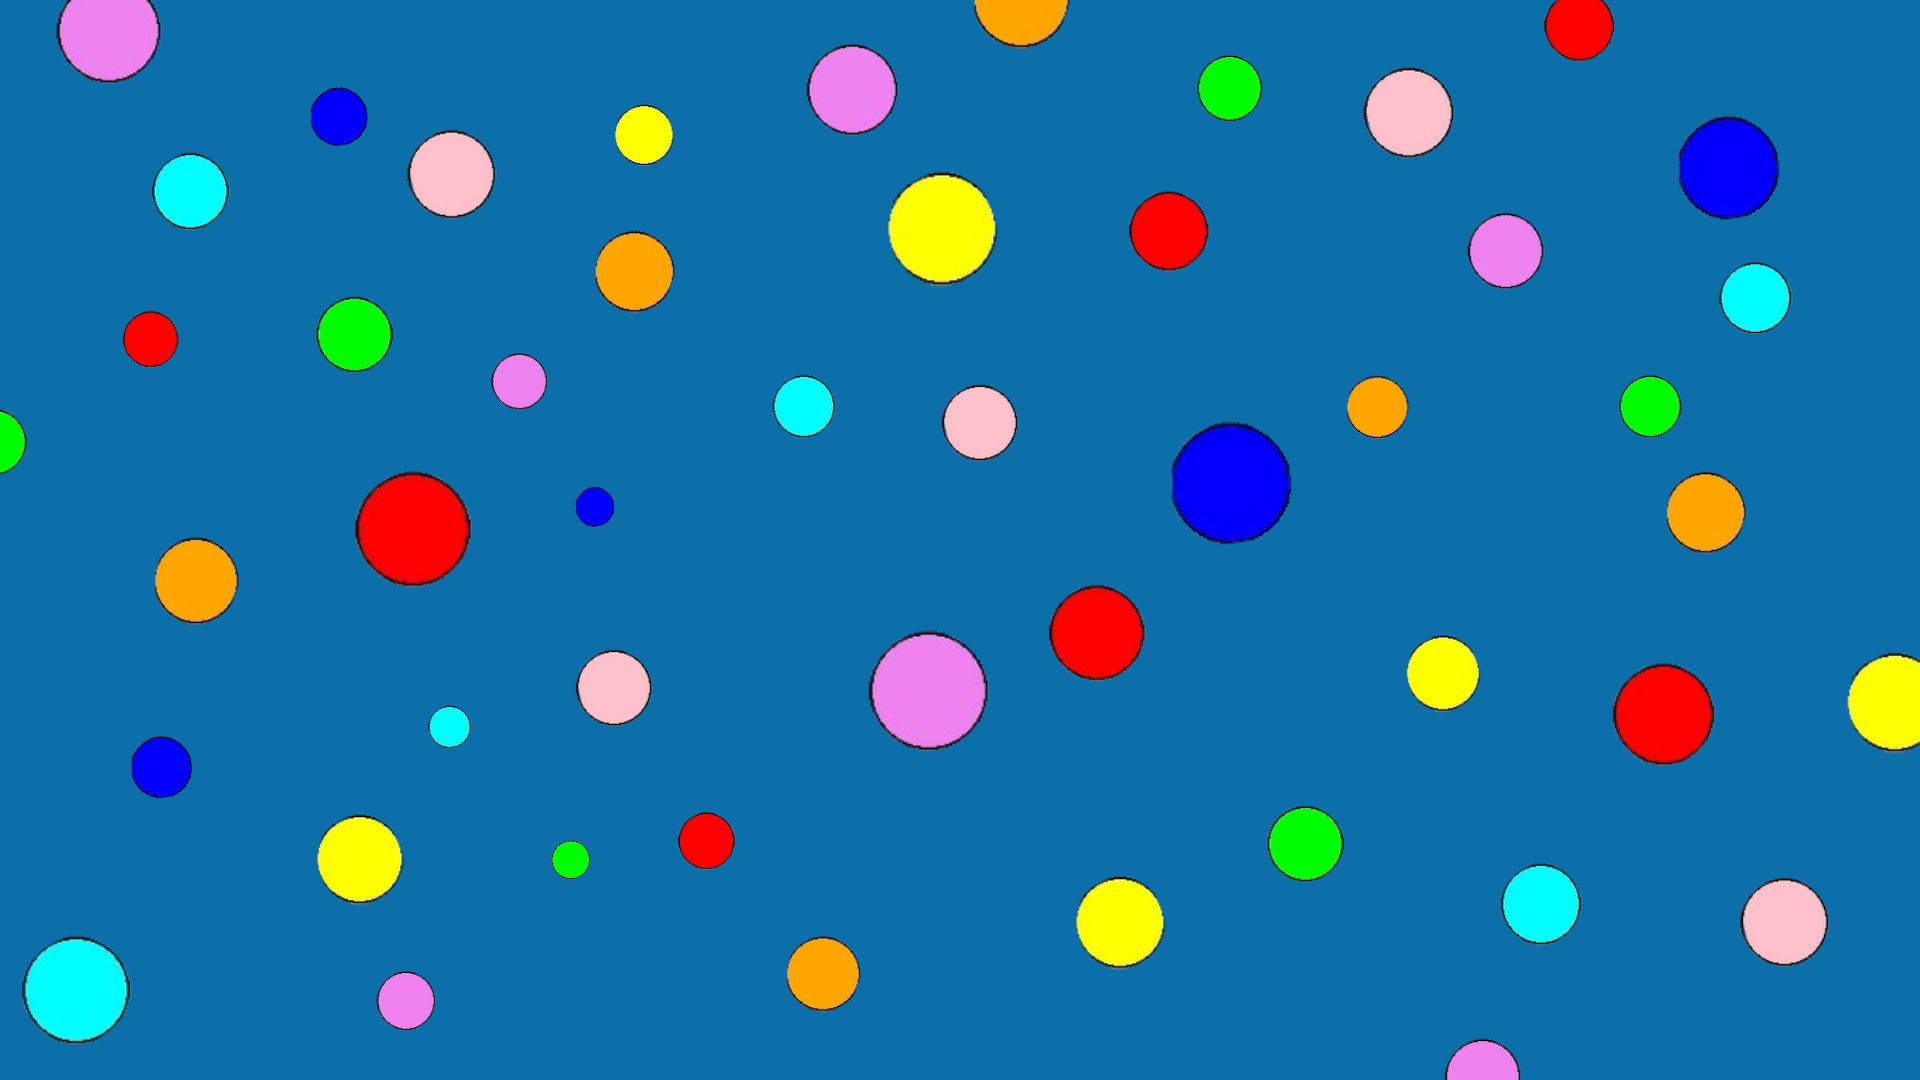
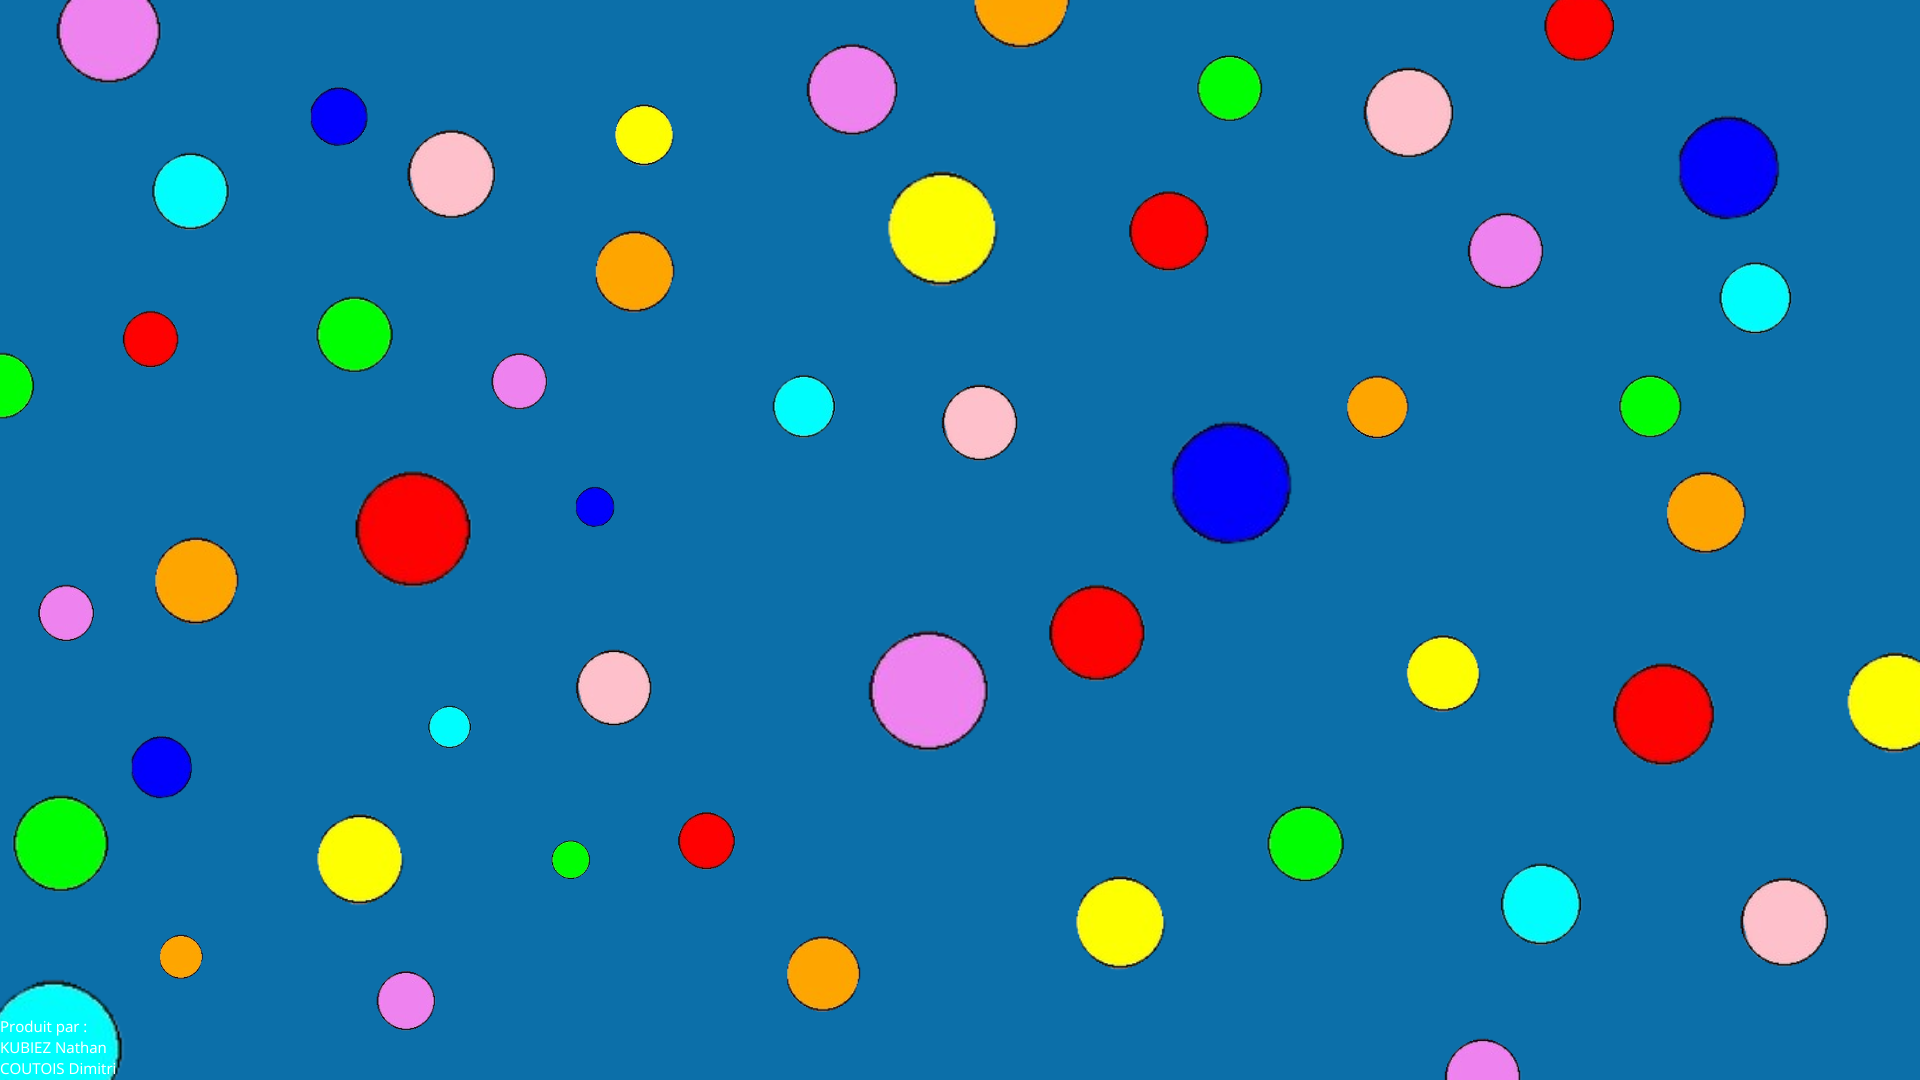
mise de la scene menu dans un fichier

diff --git a/Menu.py b/Menu.py
@@ -1,0 +1,59 @@
+import pygame
+from scene import Scene
+from Button import Button
+from confirmation import confirmation_popup
+
+class MenuScene(Scene):
+    def __init__(self, screen):
+        super().__init__(screen)
+        self.screen_width = screen.get_width()
+        self.screen_height = screen.get_height()
+        play_button_width = self.screen_width // 4
+        play_button_height = self.screen_height // 7
+        play_button_x = (self.screen_width // 2) - (play_button_width // 2)
+        play_button_y = (self.screen_height // 2) - (4*play_button_height // 2)
+        self.easy_button = Button(play_button_x, play_button_y, play_button_width, play_button_height, "Facile",(23, 131, 15),50,15)
+        self.medium_button = Button(play_button_x, play_button_y+1.3*play_button_height, play_button_width, play_button_height, "Moyen",(255, 128, 0),50,15)
+        self.hard_button = Button(play_button_x, play_button_y+2.6*play_button_height, play_button_width, play_button_height, "Difficile",(255, 0, 0),50,15)
+        self.perso_button = Button(play_button_x, play_button_y+3.9*play_button_height, play_button_width, play_button_height, "Personalisable",(255, 0, 255),40,15)
+        self.quit_button = Button(19*self.screen_width/20, 0, self.screen_width/20, self.screen_width/20, "quitter",(55, 0, 255),self.screen_width//70,50)
+        self.help_button = Button(19*self.screen_width/20, self.screen_height - self.screen_width/20, self.screen_width/20, self.screen_width/20, "aide",(0, 255, 255),self.screen_width//60,50)
+        self.back_ground = pygame.image.load("image/background_menu.png") #chargement de l'image de fond du Menu
+        self.back_ground = pygame.transform.scale(self.back_ground, (self.screen_width, self.screen_height)) #on redimensionne l'image de fond du menu 
+
+
+    def handle_events(self, event):
+        if event.type == pygame.QUIT:
+            return "fin"
+        elif event.type == pygame.MOUSEBUTTONUP:
+            if event.button == 1: #si click gauche relaché
+                if self.easy_button.is_clicked(event.pos):
+                    return "Easy"  # Changer de scène vers le jeu en easy
+                elif self.medium_button.is_clicked(event.pos):
+                    return "Medium"  # Changer de scène vers le jeu en medium
+                elif self.hard_button.is_clicked(event.pos):
+                    return "Hard"  # Changer de scène vers le jeu en hard
+                elif self.perso_button.is_clicked(event.pos):
+                    return "Perso"  # Changer de scène vers le jeu en easy
+                elif self.quit_button.is_clicked(event.pos):
+                    if confirmation_popup(self.screen, "Quitter le jeu ?"): #ouvre une confirmation qui est True si le joueur veut quitter et False si il refuse
+                        return "fin"
+                elif self.help_button.is_clicked(event.pos):
+                    return "Explaination" #Changer de scène vers la scene des expliactions
+        
+    def draw(self): 
+        self.screen.blit(self.back_ground, (0, 0))#met l'image en fond d'écran
+        #on dessine tous les boutons 
+        self.easy_button.draw(self.screen)
+        self.medium_button.draw(self.screen)
+        self.hard_button.draw(self.screen)
+        self.perso_button.draw(self.screen)
+        self.quit_button.draw(self.screen)
+        self.help_button.draw(self.screen)
+        #on affiche "Menu" en haut de l'écran
+        font = pygame.font.Font("Font/Coolvetica.otf", 80)
+        text_menu = font.render("Menu", True, (255, 255, 255))
+        text_menu_width = text_menu.get_width()
+        text_menu_x = (self.screen_width // 2) - (text_menu_width // 2)
+        text_menu_y = self.screen_height // 20
+        self.screen.blit(text_menu, (text_menu_x,text_menu_y))

diff --git a/scene.py b/scene.py
@@ -16,61 +16,7 @@ class Scene:
     def draw(self):
         pass  
 
-class MenuScene(Scene):
-    def __init__(self, screen):
-        super().__init__(screen)
-        self.screen_width = screen.get_width()
-        self.screen_height = screen.get_height()
-        play_button_width = self.screen_width // 4
-        play_button_height = self.screen_height // 7
-        play_button_x = (self.screen_width // 2) - (play_button_width // 2)
-        play_button_y = (self.screen_height // 2) - (4*play_button_height // 2)
-        self.easy_button = Button(play_button_x, play_button_y, play_button_width, play_button_height, "Facile",(23, 131, 15),50,15)
-        self.medium_button = Button(play_button_x, play_button_y+1.3*play_button_height, play_button_width, play_button_height, "Moyen",(255, 128, 0),50,15)
-        self.hard_button = Button(play_button_x, play_button_y+2.6*play_button_height, play_button_width, play_button_height, "Difficile",(255, 0, 0),50,15)
-        self.perso_button = Button(play_button_x, play_button_y+3.9*play_button_height, play_button_width, play_button_height, "Personalisable",(255, 0, 255),40,15)
-        self.quit_button = Button(19*self.screen_width/20, 0, self.screen_width/20, self.screen_width/20, "quitter",(55, 0, 255),self.screen_width//70,50)
-        self.help_button = Button(19*self.screen_width/20, self.screen_height - self.screen_width/20, self.screen_width/20, self.screen_width/20, "aide",(0, 255, 255),self.screen_width//60,50)
-        self.back_ground = pygame.image.load("image/background_menu2.png")
-        self.back_ground = pygame.transform.scale(self.back_ground, (self.screen_width, self.screen_height))
 
-
-    def handle_events(self, event):
-        if event.type == pygame.QUIT:
-            return "fin"
-        elif event.type == pygame.MOUSEBUTTONUP:
-            if event.button == 1:
-                if self.easy_button.is_clicked(event.pos):
-                    return "Easy"  # Changer de scène vers le jeu en easy
-                elif self.medium_button.is_clicked(event.pos):
-                    return "Medium"  # Changer de scène vers le jeu en medium
-                elif self.hard_button.is_clicked(event.pos):
-                    return "Hard"  # Changer de scène vers le jeu en hard
-                elif self.perso_button.is_clicked(event.pos):
-                    return "Perso"  # Changer de scène vers le jeu en easy
-                elif self.quit_button.is_clicked(event.pos):
-                    if confirmation_popup(self.screen, "Quitter le jeu ?"):
-                        return "fin"
-                elif self.help_button.is_clicked(event.pos):
-                    return "Explaination"
-        
-    def draw(self): 
-        #self.screen.fill((7, 67, 102))  # Fond menu
-        self.screen.blit(self.back_ground, (0, 0))
-
-        self.easy_button.draw(self.screen)
-        self.medium_button.draw(self.screen)
-        self.hard_button.draw(self.screen)
-        self.perso_button.draw(self.screen)
-        self.quit_button.draw(self.screen)
-        self.help_button.draw(self.screen)
-        font = pygame.font.Font("Font/Coolvetica.otf", 80)
-        text_menu = font.render("Menu", True, (255, 255, 255))
-        text_menu_width = text_menu.get_width()
-        text_menu_x = (self.screen_width // 2) - (text_menu_width // 2)
-        text_menu_y = self.screen_height // 20
-        self.screen.blit(text_menu, (text_menu_x,text_menu_y))  # Afficher "Menu" en haut de l'écran
-        
 
 class GameScene(Scene):
     def __init__(self, screen, nb_colors, nb_hole):

diff --git a/SceneGestion.py b/SceneGestion.py
@@ -1,4 +1,5 @@
 from scene import *
+from Menu import MenuScene
 import pygame
 
 class SceneGestion:
